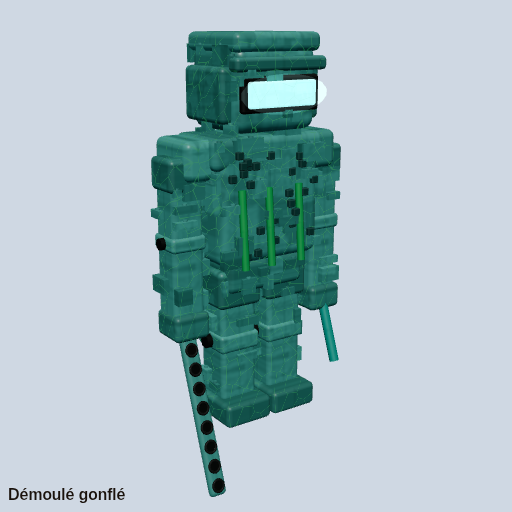
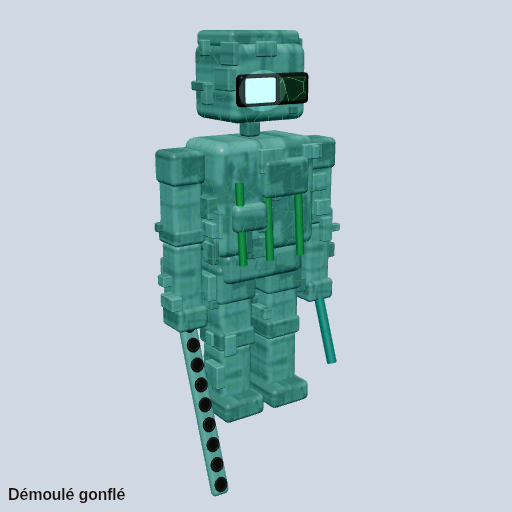
mobs v3.2: Démoulé revient au look v2 (cou, visière décalée, sans trous) + fusion v3 (135→25 draw calls)

Changed region(s): [[0.2812, 0.0312, 0.6875, 0.9688]]

diff --git a/src/game/game.ts b/src/game/game.ts
@@ -17288,98 +17288,95 @@ export function buildSpecies(spec: SpeciesSpec): StudsBody {
   return { group: g, legs, bodyMat: main };
 }
 
-/** Démoulé v3 (refs/demoule.jpg): a hunched robot built from hundreds of small
- *  grid-snapped greeble bricks (half studded) over a darker olive core, merged per
- *  material (PartBatch) so the dense skin stays a few draw calls. Plastic carries
- *  the refitted NFR "demoule" field (tight chest crop, 2-48-48-1, 20.7 dB) plus the
- *  SNR Voronoi crack rule; one wide helmet visor glows through a cracked web.
- *  Legs order stays [legL, legR, armR, armL] for the zombie walk/arm pose. */
+/** Démoulé (v2 look restored on Philippe's request; v3 keeps only the merge pass + refit NFR field) (refs/demoule.jpg): no minifig parts at all — a chunky robot
+ *  pulled from the mould too early. Cube head with a wide cracked visor (one
+ *  dark pane, one glowing pane with SNR crack lines), a torso and limbs built
+ *  of offset greeble blocks, faded plastic carrying the NFR "demoule" field
+ *  (fitted on the photo's crazed torso) plus the SNR Voronoi crack rule, and a
+ *  long Teks liftarm dragged in one hand. Legs order matches makeFig
+ *  ([legL, legR, armR, armL]) so the zombie walk/arm pose is unchanged. */
 function makeDemoule(kind: string): StudsBody {
   const pal =
-    kind === "husk" ? { c: 0xb09a70, eye: 0xffb03a } : kind === "drowned" ? { c: 0x3f7a72, eye: 0x4ef2f7 } : { c: 0x56634c, eye: 0x46e070 };
+    kind === "husk" ? { c: 0xc2b088, eye: 0xffb03a } : kind === "drowned" ? { c: 0x4f8f86, eye: 0x4ef2f7 } : { c: 0x6b7660, eye: 0x46e070 };
   const g = new THREE.Group();
-  const fx = (c: number, plane: "xy" | "zy", amt: number, crack: number, sc = 2.6) => nfrSkin(c, { field: "demoule", plane, scale: [sc, sc], amt, crack });
-  const plastic = fx(pal.c, "xy", 0.22, 0.55);
-  const plasticZ = fx(pal.c, "zy", 0.22, 0.55);
-  const lightC = new THREE.Color(pal.c).multiplyScalar(1.12).getHex();
-  const shadeC = new THREE.Color(pal.c).multiplyScalar(0.78).getHex();
-  const light = fx(lightC, "xy", 0.2, 0.45, 3.4);
-  const shade = fx(shadeC, "zy", 0.2, 0.4, 3.4);
-  const recess = skin(new THREE.Color(pal.c).multiplyScalar(0.32).getHex());
-  const dark = skin(0x161a17);
-  const rnd = seeded(kind.length * 7919 + 17);
-  const gm = [plastic, plastic, plasticZ, light, shade];
-  // core volumes in the recess colour: the gaps between greebles read as depth, like the photo
-  const torso = put(g, geoRBox(0.46, 0.44, 0.28, 0.04), plastic, 0, 0.88, 0);
+  const plastic = nfrSkin(pal.c, { field: "demoule", plane: "xy", scale: [3.2, 2.4], amt: 0.3, crack: 0.65 });
+  const plasticZ = nfrSkin(pal.c, { field: "demoule", plane: "zy", scale: [3.2, 2.4], amt: 0.3, crack: 0.65 });
+  const shade = nfrSkin(new THREE.Color(pal.c).multiplyScalar(0.88).getHex(), { field: "demoule", plane: "xy", scale: [5, 4], amt: 0.25, crack: 0.4 });
+  const dark = skin(0x1c211d);
+  let seed = kind.length * 7919 + 17;
+  const rnd = () => ((seed = (seed * 16807) % 2147483647) / 2147483647);
+  /** scatter offset greeble blocks over a box face set (front/back/sides) */
+  const greeble = (parent: THREE.Object3D, w: number, h: number, d: number, cx: number, cy: number, cz: number, n: number) => {
+    for (let i = 0; i < n; i++) {
+      const face = Math.floor(rnd() * 4);
+      const gw = 0.03 + rnd() * 0.07, gh = 0.03 + rnd() * 0.07, gd = 0.015 + rnd() * 0.03;
+      const u = (rnd() - 0.5) * 0.9, v = (rnd() - 0.5) * 0.9;
+      const m = rnd() < 0.3 ? shade : face < 2 ? plastic : plasticZ;
+      if (face < 2) put(parent, geoRBox(gw, gh, gd, 0.006), m, cx + u * w, cy + v * h, cz + (face ? 1 : -1) * (d / 2 + gd * 0.3), 0, true);
+      else put(parent, geoRBox(gd, gh, gw, 0.006), m, cx + (face === 2 ? 1 : -1) * (w / 2 + gd * 0.3), cy + v * h, cz + u * d, 0, true);
+    }
+  };
+  // torso + hips
+  const torso = put(g, geoRBox(0.44, 0.42, 0.26, 0.04), plastic, 0, 0.88, 0);
   torso.userData.skin = "body";
-  const tb = new PartBatch(`demoule-${kind}-torso`);
-  tb.add(geoRBox(0.36, 0.13, 0.22, 0.03), shade, 0, 0.6, 0); // hips
-  tb.add(geoRBox(0.5, 0.12, 0.3, 0.03), plastic, 0, 1.08, 0.01); // hunched shoulder yoke
-  for (const sx of [-1, 1]) tb.add(geoRBox(0.17, 0.15, 0.24, 0.03), light, sx * 0.26, 1.06, 0.02); // shoulder blocks
-  for (let k = 0; k < 6; k++) tb.add(geoRBox(0.07, 0.05, 0.05, 0.01), k % 2 ? shade : plastic, 0, 0.66 + k * 0.075, 0.16); // spine column
-  brickSkin(tb, gm, plastic, rnd, 0.46, 0.44, 0.28, 0, 0.88, 0, 80);
-  brickSkin(tb, gm, plastic, rnd, 0.5, 0.12, 0.3, 0, 1.08, 0.01, 18);
-  brickSkin(tb, [shade, plastic], plastic, rnd, 0.36, 0.13, 0.22, 0, 0.6, 0, 12, 0.03, false);
-  for (let i = 0; i < 26; i++) tb.add(geoRBox(0.03, 0.03, 0.02, 0.005), recess, (rnd() - 0.5) * 0.42, 0.68 + rnd() * 0.4, -0.15 - rnd() * 0.01); // dark pits
-  tb.flush(g);
-  // head: bigger helmet, one wide visor glowing behind a cracked web
+  put(g, geoRBox(0.36, 0.12, 0.22, 0.03), shade, 0, 0.62, 0);
+  put(g, geoRBox(0.2, 0.14, 0.05, 0.02), shade, -0.06, 0.95, -0.14, 0, true); // chest plates
+  put(g, geoRBox(0.14, 0.1, 0.05, 0.02), plastic, 0.1, 0.82, -0.145, 0, true);
+  greeble(g, 0.44, 0.42, 0.26, 0, 0.88, 0, 34);
+  // head: chunky cube with a wide cracked visor
   const head = new THREE.Group();
-  head.position.set(0, 1.13, -0.02);
+  head.position.set(0, 1.12, 0);
   g.add(head);
   g.userData.head = head;
-  put(head, geoRBox(0.36, 0.31, 0.32, 0.045), plastic, 0, 0.18, 0);
-  const hb = new PartBatch(`demoule-${kind}-head`);
-  hb.add(geoRBox(0.1, 0.07, 0.1, 0.015), shade, 0, 0.0, 0.02); // neck block
-  hb.add(geoRBox(0.38, 0.07, 0.34, 0.025), light, 0, 0.345, 0.0); // helmet crown
-  hb.add(geoRBox(0.4, 0.05, 0.06, 0.015), shade, 0, 0.27, -0.16); // brow ridge
-  for (const sx of [-1, 1]) hb.add(geoRBox(0.06, 0.2, 0.26, 0.02), shade, sx * 0.19, 0.16, 0.01); // cheek guards
-  brickSkin(hb, gm, plastic, rnd, 0.36, 0.31, 0.32, 0, 0.18, 0, 36);
-  hb.add(geoRBox(0.34, 0.13, 0.03, 0.012), dark, 0, 0.165, -0.165); // visor frame
-  hb.flush(head);
-  const pane = nfrSkin(new THREE.Color(pal.eye).multiplyScalar(0.7).getHex(), { field: "demoule", plane: "xy", scale: [7, 7], amt: 0.12, crack: 1.0 }, { transparent: true, opacity: 0.92 });
-  pane.emissive = new THREE.Color(pal.eye);
-  (pane as THREE.MeshStandardMaterial).emissiveIntensity = 0.85;
-  put(head, geoRBox(0.3, 0.095, 0.02, 0.01), pane, 0, 0.165, -0.182, 0, true);
-  const halo = new THREE.MeshBasicMaterial({ color: pal.eye, transparent: true, opacity: 0.18, blending: THREE.AdditiveBlending, depthWrite: false });
-  put(head, geoBall(0.12, 12), halo, 0, 0.165, -0.2, 0, true).scale.set(1.6, 0.6, 0.25);
-  // limbs: each segment greebled in its own merged batch on the swinging pivot
-  const limb = (id: string, x: number, y: number, w: number, upLen: number, lowLen: number, arm: boolean) => {
+  put(head, geoRBox(0.06, 0.06, 0.06, 0.01), shade, 0, 0.0, 0, 0, true); // neck block
+  put(head, geoRBox(0.32, 0.27, 0.28, 0.035), plastic, 0, 0.17, 0);
+  greeble(head, 0.32, 0.27, 0.28, 0, 0.17, 0, 18);
+  put(head, geoRBox(0.3, 0.06, 0.24, 0.02), shade, 0, 0.32, 0.01, 0, true); // brow / top plate
+  put(head, geoRBox(0.3, 0.11, 0.04, 0.015), dark, 0, 0.15, -0.145, 0, true); // visor frame
+  const paneDark = nfrSkin(0x1e3326, { field: "demoule", plane: "xy", scale: [9, 9], amt: 0.1, crack: 1.0 }, { transparent: true, opacity: 0.85 });
+  paneDark.emissive = new THREE.Color(0x0c2a14);
+  put(head, geoRBox(0.125, 0.085, 0.02, 0.008), paneDark, -0.068, 0.15, -0.165, 0, true);
+  const paneGlow = nfrSkin(pal.eye, { field: "demoule", plane: "xy", scale: [9, 9], amt: 0.1, crack: 1.0 }, { transparent: true, opacity: 0.9 });
+  paneGlow.emissive = new THREE.Color(pal.eye);
+  (paneGlow as THREE.MeshStandardMaterial).emissiveIntensity = 0.9;
+  put(head, geoRBox(0.125, 0.085, 0.02, 0.008), paneGlow, 0.068, 0.15, -0.165, 0, true);
+  const halo = new THREE.MeshBasicMaterial({ color: pal.eye, transparent: true, opacity: 0.2, blending: THREE.AdditiveBlending, depthWrite: false });
+  put(head, geoBall(0.1, 12), halo, 0.068, 0.15, -0.18, 0, true).scale.set(1, 0.7, 0.25);
+  put(head, geoRBox(0.012, 0.1, 0.03, 0.004), dark, 0, 0.15, -0.165, 0, true); // visor mullion
+  // limbs
+  const limb = (x: number, y: number, w: number, upLen: number, lowLen: number, arm: boolean) => {
     const p = new THREE.Group();
     p.position.set(x, y, 0);
     g.add(p);
-    put(p, geoRBox(w, upLen + lowLen + w * 0.4, w, 0.02), plastic, 0, -(upLen + lowLen) / 2 - w * 0.3, 0);
-    const lb = new PartBatch(`demoule-${kind}-${id}`);
-    lb.add(geoRBox(w * 1.2, w * 0.95, w * 1.2, 0.02), shade, 0, -w * 0.3, 0);
-    lb.add(geoRBox(w * 1.12, w * 0.45, w * 1.12, 0.015), light, 0, -upLen - w * 0.2, 0); // knee/elbow block
-    lb.add(geoCyl(w * 0.18, w * 1.4, 8), dark, 0, -upLen - w * 0.2, 0, 0, 0, Math.PI / 2); // axle
-    brickSkin(lb, gm, plastic, rnd, w, upLen + lowLen, w, 0, -(upLen + lowLen) / 2 - w * 0.3, 0, arm ? 16 : 18, 0.03, false);
-    if (arm) lb.add(geoRBox(w * 1.15, w * 0.8, w * 1.2, 0.02), shade, 0, -upLen - lowLen - w * 0.6, -0.01); // blocky fist
-    else lb.add(geoRBox(w * 1.3, w * 0.6, w * 1.6, 0.02), shade, 0, -upLen - lowLen - w * 0.55, -w * 0.18); // boot
-    lb.flush(p);
+    put(p, geoRBox(w * 1.15, w * 1.0, w * 1.15, 0.02), shade, 0, -w * 0.3, 0, 0, true); // shoulder / hip block
+    put(p, geoRBox(w, upLen, w, 0.02), plastic, 0, -upLen / 2 - w * 0.2, 0);
+    put(p, geoRBox(w * 1.08, w * 0.5, w * 1.08, 0.015), shade, 0, -upLen - w * 0.2, 0, 0, true); // knee/elbow block
+    put(p, geoRBox(w * 0.95, lowLen, w * 0.95, 0.02), plastic, 0, -upLen - lowLen / 2 - w * 0.4, 0);
+    greeble(p, w, upLen + lowLen, w, 0, -(upLen + lowLen) / 2 - w * 0.3, 0, 8);
+    if (arm) put(p, geoRBox(w * 1.05, w * 0.7, w * 1.1, 0.015), shade, 0, -upLen - lowLen - w * 0.6, -0.01, 0, true); // blocky fist
+    else put(p, geoRBox(w * 1.2, w * 0.55, w * 1.5, 0.02), shade, 0, -upLen - lowLen - w * 0.55, -w * 0.15); // boot
     return p;
   };
-  const legL = limb("legL", -0.11, 0.6, 0.16, 0.24, 0.22, false);
-  const legR = limb("legR", 0.11, 0.6, 0.16, 0.24, 0.22, false);
-  const armR = limb("armR", 0.32, 1.05, 0.13, 0.27, 0.27, true);
-  const armL = limb("armL", -0.32, 1.05, 0.13, 0.27, 0.27, true);
+  const legL = limb(-0.11, 0.6, 0.15, 0.24, 0.22, false);
+  const legR = limb(0.11, 0.6, 0.15, 0.24, 0.22, false);
+  const armR = limb(0.3, 1.04, 0.12, 0.26, 0.26, true);
+  const armL = limb(-0.3, 1.04, 0.12, 0.26, 0.26, true);
   // dragged Teks liftarm in the right hand (hangs from the fist, ring holes)
-  const beamM = skin(new THREE.Color(pal.c).multiplyScalar(1.05).getHex());
+  const beamM = skin(new THREE.Color(pal.c).multiplyScalar(1.12).getHex());
   const beam = new THREE.Group();
-  beam.position.set(0, -0.64, -0.02);
+  beam.position.set(0, -0.62, -0.02);
   beam.rotation.x = 0.35;
   armR.add(beam);
   put(beam, geoRBox(0.07, 0.7, 0.035, 0.03), beamM, 0, -0.3, 0);
-  const bb = new PartBatch(`demoule-beam`);
   for (let k = 0; k < 9; k++) {
-    bb.add(geoTorus(0.022, 0.006, 16), dark, 0, -0.01 - k * 0.075, -0.018);
-    bb.add(geoCyl(0.02, 0.04, 12), dark, 0, -0.01 - k * 0.075, 0, Math.PI / 2);
+    put(beam, geoTorus(0.022, 0.006, 16), dark, 0, -0.01 - k * 0.075, -0.018, 0, true);
+    put(beam, geoCyl(0.02, 0.04, 12), dark, 0, -0.01 - k * 0.075, 0, Math.PI / 2, true);
   }
-  bb.flush(beam);
   if (kind === "husk") {
-    put(g, geoRBox(0.48, 0.05, 0.3, 0.015), skin(0xe8dec2), 0, 0.78, 0, 0, true); // sand-worn wrap plates
-    put(g, geoRBox(0.48, 0.05, 0.3, 0.015), skin(0xd8cca8), 0, 0.98, 0, 0, true);
+    put(g, geoRBox(0.46, 0.05, 0.28, 0.015), skin(0xe8dec2), 0, 0.78, 0, 0, true); // sand-worn wrap plates
+    put(g, geoRBox(0.46, 0.05, 0.28, 0.015), skin(0xd8cca8), 0, 0.98, 0, 0, true);
   } else if (kind === "drowned") {
-    for (const sx of [-0.12, 0.02, 0.14]) put(g, geoCyl(0.015, 0.3, 6), skin(0x2f8a4a), sx, 0.8, -0.16, 0.08, true); // weed hoses
+    for (const sx of [-0.12, 0.02, 0.14]) put(g, geoCyl(0.015, 0.3, 6), skin(0x2f8a4a), sx, 0.8, -0.15, 0.08, true); // weed hoses
     put(armL, geoCyl(0.02, 0.6, 8), skin(0x2a8478), 0, -0.6, -0.05, 0.35, true); // kept trident shaft (drop parity)
   }
   return { group: g, legs: [legL, legR, armR, armL], bodyMat: plastic };

diff --git a/GrokBot-WorkLog.md b/GrokBot-WorkLog.md
@@ -58,3 +58,10 @@ Journal de travail de studs game tester (Grok Bot) sur StudCraft. Heures en heur
 - Marchands : la sacoche passe sur la hanche arrière. Empiècements, cape et ceinture sont rétrécis pour ne plus couvrir les bras. Les outils (houlette, bâton, marteau, clé, truelle, arc, registre, cagette) sont tenus dans la pince et suivent donc le balancement.
 - Nouveau test : 2 pivots de bras par villageois et marchand, pilotés par l'animateur (legs[2]/[3]), avec un écart à l'épaule. 131/131 tests, tsc et build OK.
 - Montage : `shots-v3/montage-pnj-bras.png` (avant, après au repos, après bras balancés).
+
+## v3.2 — Démoulé : retour au look v2 (31 oct. 2026, 12h14 PDT)
+- Philippe préfère le Démoulé v2 : plus fin, tête séparée sur un cou, visière décalée, sans motif de trous sombres. Le `makeDemoule` v2 est restauré tel quel pour le marcheur, le husk et le noyé.
+- La fusion v3 est conservée : les tronçons statiques sont fusionnés par matériau, mais la tête et les 4 membres restent des pivots séparés. Les primitives sont allégées.
+- Marcheur : 135 → 25 draw calls, 38,3k → 20,6k triangles. Husk : 137 → 27 draw calls. Noyé : 139 → 29 draw calls.
+- Le champ NFR `demoule` refit (20,7 dB) est conservé : les trous venaient de la géométrie v3, pas du champ.
+- Comparaison réf. | v2 | v3 (rejeté) | v3.2 : `shots-v3/ref-vs-demoule-v32.png`. Tests 131/131, tsc et build OK.
